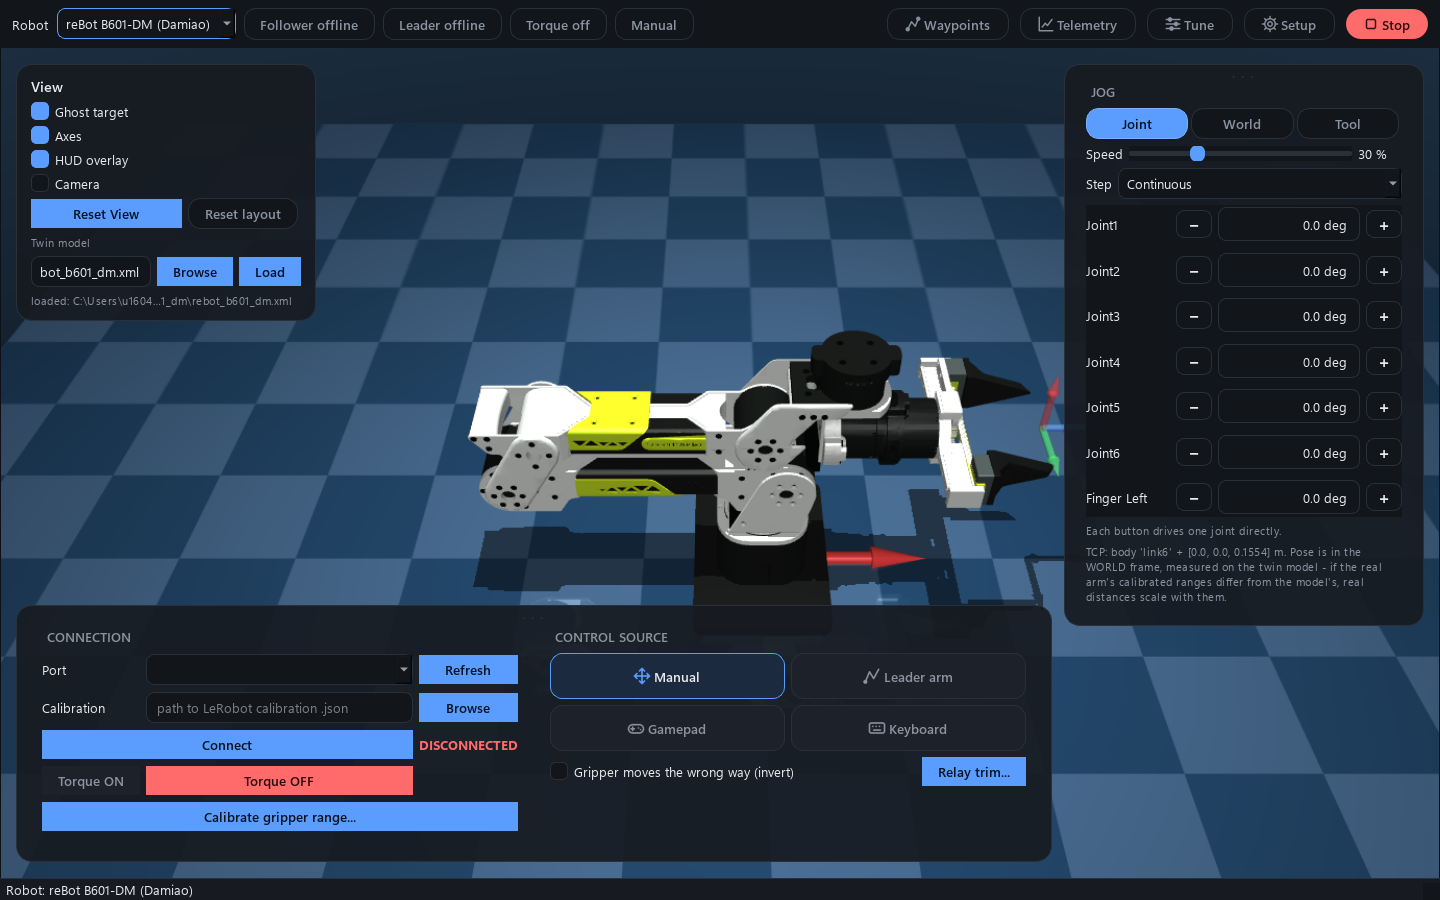
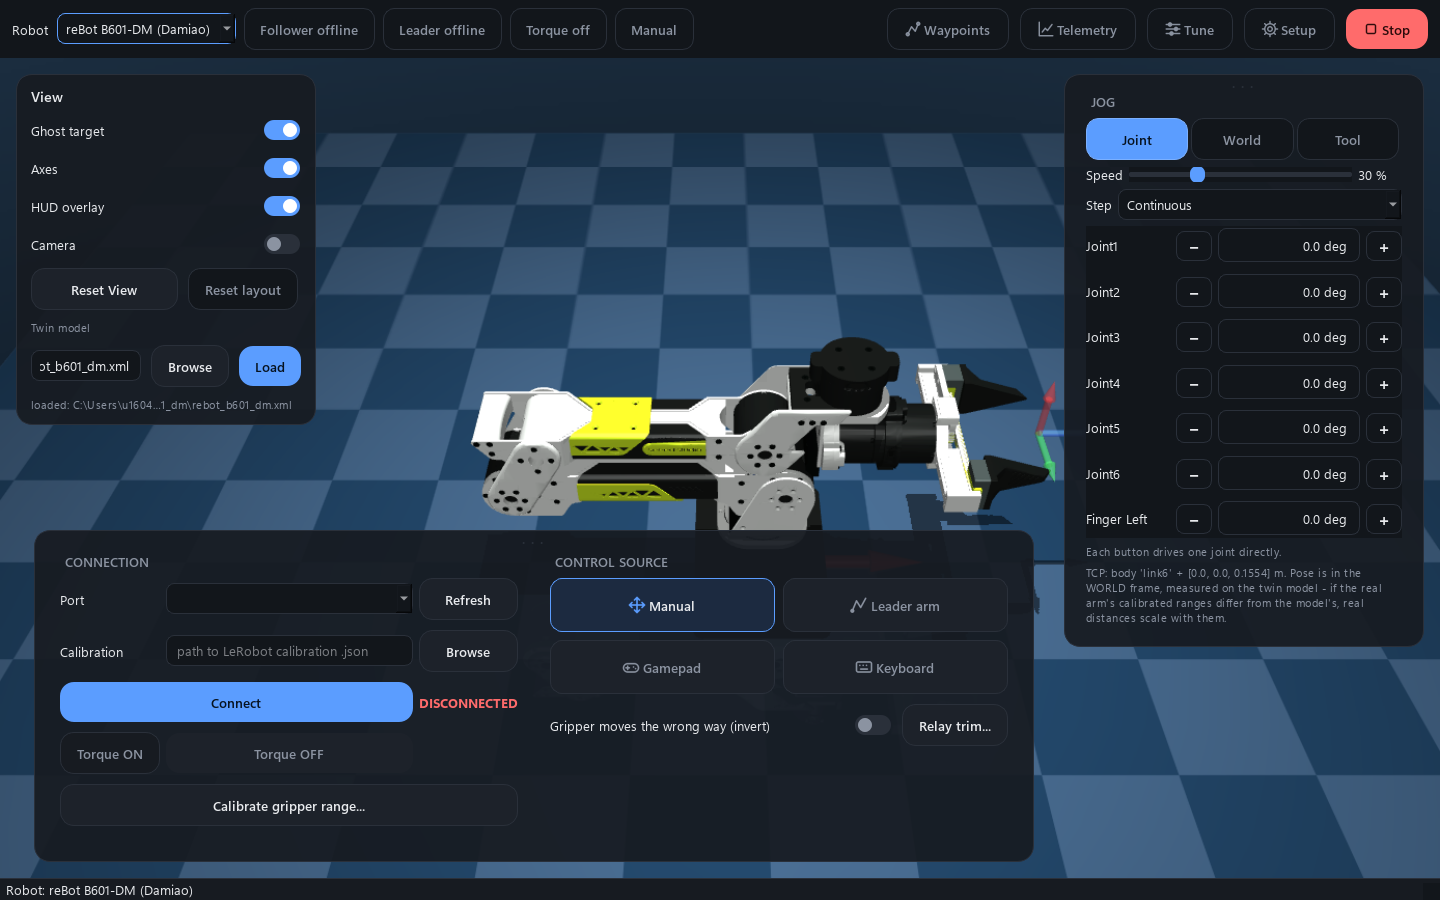
GUI polish: toggle switches, ghost buttons, compact cards, capped dock
Checkboxes in the View card and the gripper-invert option become toggle
switches; buttons are outlined pills with solid accent only on the primary
action; connection and leader port rows hide once connected; the dock is
capped and centred on large monitors.

diff --git a/ui/control_source_panel.py b/ui/control_source_panel.py
@@ -4,7 +4,6 @@ from PySide6.QtCore import QSize, Qt, Signal
 from PySide6.QtGui import QColor, QPainter
 from PySide6.QtWidgets import (
     QButtonGroup,
-    QCheckBox,
     QComboBox,
     QDialog,
     QDialogButtonBox,
@@ -25,6 +24,7 @@ from core.servo_bus import JOINT_ORDER
 from .icons import icon
 from .setup_panel import configure_port_combo, fill_port_combo
 from .style import COLORS
+from .toggle_switch import ToggleSwitch
 
 SOURCES = ["manual", "gamepad", "leader", "keyboard"]
 
@@ -106,15 +106,16 @@ class ControlSourcePanel(QGroupBox):
         self.leader_port_combo.setEditable(True)
         configure_port_combo(self.leader_port_combo)
         self._refresh_leader_ports()
-        refresh_btn = QPushButton("Refresh")
+        self.leader_refresh_btn = refresh_btn = QPushButton("Refresh")
         refresh_btn.clicked.connect(self._refresh_leader_ports)
 
         self.leader_calib_edit = QLineEdit()
         self.leader_calib_edit.setPlaceholderText("leader's calibration .json")
-        browse_btn = QPushButton("Browse")
+        self.leader_browse_btn = browse_btn = QPushButton("Browse")
         browse_btn.clicked.connect(self._browse_leader_calibration)
 
         self.leader_connect_btn = QPushButton("Connect Leader")
+        self.leader_connect_btn.setObjectName("primaryButton")
         self.leader_connect_btn.clicked.connect(self._on_leader_connect_clicked)
 
         self.leader_status = QLabel("leader disconnected")
@@ -133,10 +134,13 @@ class ControlSourcePanel(QGroupBox):
 
         form_layout = QGridLayout(self.leader_form)
         form_layout.setContentsMargins(0, 4, 0, 0)
-        form_layout.addWidget(QLabel("Port"), 0, 0)
+        form_layout.setVerticalSpacing(8)
+        self.leader_port_label = QLabel("Port")
+        self.leader_calib_label = QLabel("Calibration")
+        form_layout.addWidget(self.leader_port_label, 0, 0)
         form_layout.addWidget(self.leader_port_combo, 0, 1)
         form_layout.addWidget(refresh_btn, 0, 2)
-        form_layout.addWidget(QLabel("Calibration"), 1, 0)
+        form_layout.addWidget(self.leader_calib_label, 1, 0)
         form_layout.addWidget(self.leader_calib_edit, 1, 1)
         form_layout.addWidget(browse_btn, 1, 2)
         form_layout.addWidget(self.leader_connect_btn, 2, 0, 1, 2)
@@ -186,7 +190,7 @@ class ControlSourcePanel(QGroupBox):
         engage_layout.addWidget(self.align_label)
         self.engage_form.setVisible(False)
 
-        self.gripper_invert_check = QCheckBox("Gripper moves the wrong way (invert)")
+        self.gripper_invert_check = ToggleSwitch("Gripper moves the wrong way (invert)")
         self.gripper_invert_check.setToolTip(
             "Tick this if squeezing the leader OPENS the follower's gripper.\n"
             "Saved to gui_settings.json, so it persists across restarts and\n"
@@ -216,6 +220,8 @@ class ControlSourcePanel(QGroupBox):
         tiles.addWidget(self.keyboard_radio, 1, 1)
 
         layout = QVBoxLayout(self)
+        layout.setSpacing(10)
+        tiles.setSpacing(8)
         layout.addLayout(tiles)
         layout.addWidget(self.leader_form)
         layout.addWidget(self.engage_form)
@@ -324,6 +330,9 @@ class ControlSourcePanel(QGroupBox):
         self.leader_status.setObjectName("statusGood" if connected else "statusDanger")
         self.leader_status.setStyleSheet("")
         self.leader_calibrate_btn.setEnabled(connected)
+        for widget in (self.leader_port_label, self.leader_port_combo, self.leader_refresh_btn,
+                       self.leader_calib_label, self.leader_calib_edit, self.leader_browse_btn):
+            widget.setVisible(not connected)
 
     def set_tolerance(self, degrees: float) -> None:
         """Reflect the persisted value without re-emitting it back out."""

diff --git a/ui/style.py b/ui/style.py
@@ -54,18 +54,26 @@ QGroupBox::title {{
 }}
 
 /* Dark text on the (light) accent fill: white on #5b9dff is only ~2.9:1. */
+/* Ghost by default (an outlined pill), so a screen full of buttons reads as
+   calm separate controls; solid accent is kept for the one primary action. */
 QPushButton {{
-    background-color: {COLORS['accent']};
-    color: #06121f;
-    border: none;
-    border-radius: 15px;
+    background-color: {COLORS['panel_alt']};
+    color: {COLORS['text']};
+    border: 1px solid {COLORS['border']};
+    border-radius: 14px;
     padding: 6px 16px;
+    min-height: 28px;   /* Qt drops a radius larger than half the height: keep it a real pill */
     font-weight: 600;
 }}
-QPushButton:hover {{ background-color: {COLORS['accent_hover']}; }}
-QPushButton:disabled {{ background-color: {COLORS['panel_alt']}; color: {COLORS['text_muted']}; }}
-QPushButton#dangerButton {{ background-color: {COLORS['danger']}; color: #2a0a0a; }}
+QPushButton:hover {{ border-color: {COLORS['accent']}; }}
+QPushButton:pressed {{ background-color: {COLORS['border']}; }}
+QPushButton:disabled {{ background-color: {COLORS['panel']}; color: {COLORS['text_muted']}; border-color: {COLORS['border']}; }}
+QPushButton#primaryButton {{ background-color: {COLORS['accent']}; color: #06121f; border: none; border-radius: 14px; }}
+QPushButton#primaryButton:hover {{ background-color: {COLORS['accent_hover']}; }}
+QPushButton#primaryButton:disabled {{ background-color: {COLORS['panel_alt']}; color: {COLORS['text_muted']}; }}
+QPushButton#dangerButton {{ background-color: {COLORS['danger']}; color: #2a0a0a; border: none; border-radius: 14px; }}
 QPushButton#dangerButton:hover {{ background-color: #ff8585; }}
+QPushButton#dangerButton:disabled {{ background-color: {COLORS['panel_alt']}; color: {COLORS['text_muted']}; }}
 
 QComboBox, QLineEdit, QSpinBox, QDoubleSpinBox {{
     background-color: {COLORS['bg']};
@@ -87,7 +95,7 @@ QTabBar::tab {{
     background: transparent;
     color: {COLORS['text_muted']};
     padding: 6px 16px;
-    border-radius: 15px;
+    border-radius: 14px;
     margin-right: 4px;
     font-weight: 600;
 }}
@@ -262,7 +270,9 @@ QPushButton#modeTile:checked {{
     color: {COLORS['text']};
 }}
 QPushButton#modeTile:disabled {{ color: {COLORS['border']}; background-color: {COLORS['panel']}; }}
-QPushButton#engageButton {{ padding: 9px 22px; font-size: 14px; }}
+QPushButton#engageButton {{ padding: 9px 22px; font-size: 14px; background-color: {COLORS['accent']}; color: #06121f; border: none; border-radius: 14px; }}
+QPushButton#engageButton:hover {{ background-color: {COLORS['accent_hover']}; }}
+QPushButton#engageButton:disabled {{ background-color: {COLORS['panel_alt']}; color: {COLORS['text_muted']}; }}
 QPushButton#engageButton[engaged="true"] {{ background-color: {COLORS['danger']}; color: #2a0a0a; }}
 QLabel#cardHandle {{ color: {COLORS['border']}; font-size: 8px; letter-spacing: 2px; }}
 QLabel#cardHandle:hover {{ color: {COLORS['text_muted']}; }}

diff --git a/ui/twin_panel.py b/ui/twin_panel.py
@@ -4,7 +4,6 @@ import numpy as np
 from PySide6.QtCore import QEvent, QPointF, QRectF, Qt, QTimer, Signal
 from PySide6.QtGui import QColor, QFont, QFontMetrics, QImage, QPainter, QPen, QPixmap
 from PySide6.QtWidgets import (
-    QCheckBox,
     QFileDialog,
     QFrame,
     QGroupBox,
@@ -17,6 +16,7 @@ from PySide6.QtWidgets import (
 )
 
 from .style import COLORS
+from .toggle_switch import ToggleSwitch
 
 # HUD tuning - kept as module constants instead of buried magic numbers so a
 # "make it bigger/denser" request later is a one-line change, not a hunt.
@@ -98,9 +98,10 @@ class TwinPanel(QGroupBox):
         browse_btn = QPushButton("Browse")
         browse_btn.clicked.connect(self._browse)
         load_btn = QPushButton("Load")
+        load_btn.setObjectName("primaryButton")
         load_btn.clicked.connect(lambda: self.load_requested.emit(self.path_edit.text()))
 
-        self.hud_check = QCheckBox("HUD overlay")
+        self.hud_check = ToggleSwitch("HUD overlay")
         self.hud_check.setToolTip("Live load / temperature bars drawn over the render")
         self.hud_check.setChecked(True)
         self.hud_check.toggled.connect(lambda _: self._refresh_view())
@@ -110,14 +111,14 @@ class TwinPanel(QGroupBox):
         # appear when there is something to show (a target that differs from
         # where the arm is, a jog frame to point out), so leaving them on costs
         # nothing on a quiet screen.
-        self.ghost_check = QCheckBox("Ghost target")
+        self.ghost_check = ToggleSwitch("Ghost target")
         self.ghost_check.setChecked(True)
         self.ghost_check.setToolTip(
             "A translucent copy of the arm at where it is HEADING: the selected or\n"
             "playing waypoint, or the target a jog is driving toward while the real\n"
             "arm catches up."
         )
-        self.axes_check = QCheckBox("Axes")
+        self.axes_check = ToggleSwitch("Axes")
         self.axes_check.setChecked(True)
         self.axes_check.setToolTip(
             "Draw the World axes at the base and the Tool axes at the gripper tip.\n"
@@ -191,7 +192,7 @@ class TwinPanel(QGroupBox):
 
         # The controls live in a floating "View" card drawn over the render
         # (positioned by _place_view_card) instead of a toolbar above it.
-        self.camera_check = QCheckBox("Camera")
+        self.camera_check = ToggleSwitch("Camera")
         self.camera_check.setToolTip("Show the camera feed as a floating card")
 
         model_row = QHBoxLayout()
@@ -203,7 +204,7 @@ class TwinPanel(QGroupBox):
         self.view_card.setObjectName("floatCard")
         card = QVBoxLayout(self.view_card)
         card.setContentsMargins(14, 12, 14, 12)
-        card.setSpacing(6)
+        card.setSpacing(10)
         title = QLabel("View")
         title.setObjectName("cardTitle")
         self.view_title = title   # doubles as the card's drag handle (StageView)

diff --git a/ui/connection_panel.py b/ui/connection_panel.py
@@ -28,15 +28,16 @@ class ConnectionPanel(QGroupBox):
         configure_port_combo(self.port_combo)
         self._refresh_ports()
 
-        refresh_btn = QPushButton("Refresh")
+        self.refresh_btn = refresh_btn = QPushButton("Refresh")
         refresh_btn.clicked.connect(self._refresh_ports)
 
         self.calib_edit = QLineEdit()
         self.calib_edit.setPlaceholderText("path to LeRobot calibration .json")
-        browse_btn = QPushButton("Browse")
+        self.browse_btn = browse_btn = QPushButton("Browse")
         browse_btn.clicked.connect(self._browse_calibration)
 
         self.connect_btn = QPushButton("Connect")
+        self.connect_btn.setObjectName("primaryButton")
         self.connect_btn.clicked.connect(self._on_connect_clicked)
 
         self.torque_on_btn = QPushButton("Torque ON")
@@ -58,13 +59,14 @@ class ConnectionPanel(QGroupBox):
         self.calibrate_gripper_btn.setVisible(False)
         self.calibrate_gripper_btn.clicked.connect(self.calibrate_gripper_requested)
 
-        self.set_connected(False)
-
         layout = QGridLayout(self)
-        layout.addWidget(QLabel("Port"), 0, 0)
+        layout.setVerticalSpacing(10)
+        self.port_label = QLabel("Port")
+        self.calib_label = QLabel("Calibration")
+        layout.addWidget(self.port_label, 0, 0)
         layout.addWidget(self.port_combo, 0, 1)
         layout.addWidget(refresh_btn, 0, 2)
-        layout.addWidget(QLabel("Calibration"), 1, 0)
+        layout.addWidget(self.calib_label, 1, 0)
         layout.addWidget(self.calib_edit, 1, 1)
         layout.addWidget(browse_btn, 1, 2)
         layout.addWidget(self.connect_btn, 2, 0, 1, 2)
@@ -72,6 +74,7 @@ class ConnectionPanel(QGroupBox):
         layout.addWidget(self.torque_on_btn, 3, 0)
         layout.addWidget(self.torque_off_btn, 3, 1)
         layout.addWidget(self.calibrate_gripper_btn, 4, 0, 1, 3)
+        self.set_connected(False)   # after the layout: it hides rows that must exist first
         layout.setRowStretch(5, 1)   # spare height goes below the rows, not between them
 
     def set_gripper_calibration_visible(self, visible: bool) -> None:
@@ -110,3 +113,8 @@ class ConnectionPanel(QGroupBox):
         self.status_label.setText("CONNECTED" if connected else "DISCONNECTED")
         self.status_label.setObjectName("statusGood" if connected else "statusDanger")
         self.status_label.setStyleSheet("")  # force style re-poll
+        # The port / calibration rows only matter until connected; hiding them
+        # keeps the floating card short while the arm is in use.
+        for widget in (self.port_label, self.port_combo, self.refresh_btn,
+                       self.calib_label, self.calib_edit, self.browse_btn):
+            widget.setVisible(not connected)

diff --git a/ui/toggle_switch.py b/ui/toggle_switch.py
@@ -1,0 +1,59 @@
+from __future__ import annotations
+
+from PySide6.QtCore import QRectF, QSize, Qt
+from PySide6.QtGui import QColor, QPainter
+from PySide6.QtWidgets import QCheckBox
+
+from .style import COLORS
+
+
+class ToggleSwitch(QCheckBox):
+    """A QCheckBox drawn as a label with a sliding switch on the right.
+
+    It IS a QCheckBox (isChecked / setChecked / toggled / setToolTip all work
+    unchanged), only the painting differs, so it can replace a checkbox
+    without touching the code that reads it."""
+
+    TRACK_W = 36
+    TRACK_H = 20
+
+    def __init__(self, text: str = "", parent=None):
+        super().__init__(text, parent)
+        self.setCursor(Qt.PointingHandCursor)
+
+    def sizeHint(self) -> QSize:
+        metrics = self.fontMetrics()
+        return QSize(metrics.horizontalAdvance(self.text()) + self.TRACK_W + 16,
+                     max(self.TRACK_H + 8, metrics.height() + 8))
+
+    def minimumSizeHint(self) -> QSize:
+        return self.sizeHint()
+
+    def hitButton(self, pos) -> bool:   # the whole row is clickable, not just the switch
+        return self.rect().contains(pos)
+
+    def paintEvent(self, _event) -> None:
+        painter = QPainter(self)
+        painter.setRenderHint(QPainter.Antialiasing)
+        enabled = self.isEnabled()
+        checked = self.isChecked()
+
+        painter.setPen(QColor(COLORS["text"] if enabled else COLORS["text_muted"]))
+        text_rect = QRectF(0, 0, self.width() - self.TRACK_W - 10, self.height())
+        painter.drawText(text_rect, int(Qt.AlignVCenter | Qt.AlignLeft), self.text())
+
+        x = self.width() - self.TRACK_W - 1
+        y = (self.height() - self.TRACK_H) / 2
+        track = QRectF(x, y, self.TRACK_W, self.TRACK_H)
+        if checked:
+            track_color = QColor(COLORS["accent"] if enabled else COLORS["border"])
+        else:
+            track_color = QColor(COLORS["border"])
+        painter.setPen(Qt.NoPen)
+        painter.setBrush(track_color)
+        painter.drawRoundedRect(track, self.TRACK_H / 2, self.TRACK_H / 2)
+
+        knob = self.TRACK_H - 6
+        knob_x = track.right() - 3 - knob if checked else track.x() + 3
+        painter.setBrush(QColor("#ffffff" if checked else COLORS["text_muted"]))
+        painter.drawEllipse(QRectF(knob_x, y + 3, knob, knob))

diff --git a/ui/stage_view.py b/ui/stage_view.py
@@ -18,6 +18,7 @@ MARGIN = 16
 GAP = 12
 JOG_CARD_W = 360
 DOCK_SIDE_BY_SIDE_MIN_W = 800
+DOCK_MAX_W = 1000
 CAMERA_DEFAULT = QSize(420, 330)
 CAMERA_MIN = QSize(300, 230)
 HANDLE_H = 14
@@ -229,14 +230,15 @@ class StageView(QWidget):
         rects["jog"] = QRect(w - MARGIN - jog_w, MARGIN, jog_w, jog_h)
 
         # Dock: along the bottom, between the left edge and the jog column.
-        dock_w = max(360, (w - MARGIN - jog_w - GAP) - MARGIN)
+        avail_w = max(360, (w - MARGIN - jog_w - GAP) - MARGIN)
+        dock_w = min(avail_w, DOCK_MAX_W)
         # Too narrow for connection and control source side by side (e.g. with a
         # drawer open): stack them instead of clipping either.
         self._dock_row.setDirection(
             QBoxLayout.TopToBottom if dock_w < DOCK_SIDE_BY_SIDE_MIN_W else QBoxLayout.LeftToRight
         )
         dock_h = min(self._wanted_height(self.dock_card) + chrome, int(h * 0.55))
-        rects["dock"] = QRect(MARGIN, h - MARGIN - dock_h, dock_w, dock_h)
+        rects["dock"] = QRect(MARGIN + (avail_w - dock_w) // 2, h - MARGIN - dock_h, dock_w, dock_h)
 
         # Camera: left column, under the View card; sized by the user.
         cam = self._camera_size
